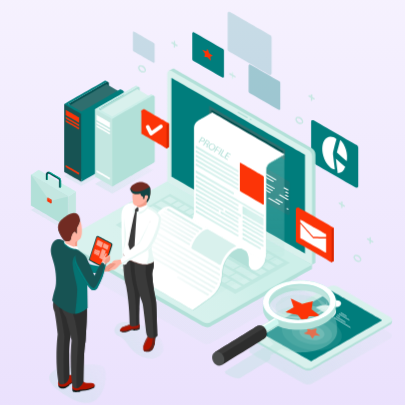
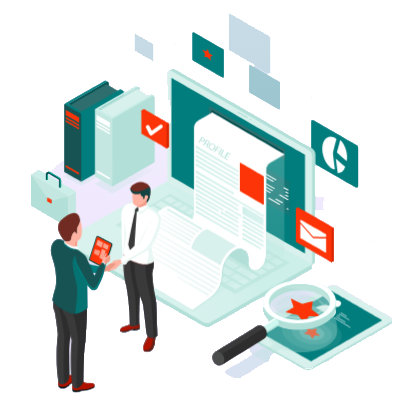
It Support: Done

diff --git a/src/components/screen/ItSupport.tsx b/src/components/screen/ItSupport.tsx
@@ -1,27 +1,112 @@
+"use client";
+
 import {
+  Activity,
+  AlertTriangle,
   ArrowRight,
-  CheckCircle2,
+  Briefcase,
+  Bug,
+  Cloud,
   Cpu,
-  Database,
+  Eye,
+  GraduationCap,
   HardDrive,
+  HeadphonesIcon,
+  Laptop,
+  Link,
   Lock,
+  MessageSquare,
   Monitor,
   MonitorCloud,
-  Network,
-  Phone,
+  Package,
   Server,
   Shield,
+  Smartphone,
+  Target,
+  Users,
   Wifi,
   Wrench,
 } from "lucide-react";
 import Image from "next/image";
+import { Autoplay } from "swiper/modules";
+import { Swiper, SwiperSlide } from "swiper/react";
+
+import "swiper/css";
+
+interface PartnerLogo {
+  name: string;
+  logo: string;
+}
+
+const partnersData: PartnerLogo[] = [
+  {
+    name: "MikroTik",
+    logo: "/images/home/how-we-do/mikrotik.png",
+  },
+  {
+    name: "N-Able",
+    logo: "/images/home/how-we-do/nable.png",
+  },
+  {
+    name: "Grandstream",
+    logo: "/images/home/how-we-do/grandstream.png",
+  },
+  {
+    name: "WordPress",
+    logo: "/images/home/how-we-do/wordpress.png",
+  },
+  {
+    name: "Microsoft 365",
+    logo: "/images/home/how-we-do/microsoft365.png",
+  },
+  {
+    name: "Ingram",
+    logo: "/images/home/how-we-do/ingram.png",
+  },
+  {
+    name: "Cellfi",
+    logo: "/images/home/how-we-do/cellfi.png",
+  },
+  {
+    name: "Ipecs",
+    logo: "/images/home/how-we-do/ipecs.png",
+  },
+  {
+    name: "HPE",
+    logo: "/images/home/how-we-do/hpe.png",
+  },
+  {
+    name: "Avaya",
+    logo: "/images/home/how-we-do/avaya.png",
+  },
+  {
+    name: "Cove",
+    logo: "/images/home/how-we-do/cove.png",
+  },
+  {
+    name: "Veeam",
+    logo: "/images/home/how-we-do/veeam.png",
+  },
+  {
+    name: "Datto",
+    logo: "/images/home/how-we-do/datto.png",
+  },
+  {
+    name: "Recaptcha",
+    logo: "/images/home/how-we-do/recaptcha.png",
+  },
+  {
+    name: "Woo",
+    logo: "/images/home/how-we-do/woo.png",
+  },
+];
 
 export default function ItSupport() {
   return (
     <main className="min-h-screen bg-slate-50 overflow-hidden font-sans text-slate-800">
       {/* ================= HERO SECTION ================= */}
       <section className="relative bg-linear-to-b from-[#f3f5ff] via-[#f9f5ff] to-white pt-24 pb-32 lg:pt-32 lg:pb-48">
-        <div className="max-w-7xl mx-auto px-6 lg:px-8 grid lg:grid-cols-2 gap-12 items-center relative z-10">
+        <div className="max-w-7xl mx-auto px-6 lg:px-8 grid lg:grid-cols-2 gap-24 items-center relative z-10">
           {/* Hero Content */}
           <div className="space-y-8">
             <h1 className="text-4xl md:text-6xl font-extrabold tracking-tight text-slate-900 leading-[1.1]">
@@ -39,23 +124,24 @@ export default function ItSupport() {
             {/* Tag Pills */}
             <div className="flex flex-wrap gap-3 max-w-lg">
               {[
-                "IT Support",
-                "Cyber Security",
-                "Servers & Networking",
-                "Device Repair",
-                "Cloud Services",
-              ].map((tag) => (
+                { icon: HeadphonesIcon, label: "IT Support" },
+                { icon: Shield, label: "Cyber Security" },
+                { icon: Server, label: "Servers & Networking" },
+                { icon: Wrench, label: "Device Repair" },
+                { icon: Cloud, label: "Cloud Services" },
+              ].map(({ icon: Icon, label }) => (
                 <span
-                  key={tag}
-                  className="px-4 py-2 bg-slate-800 text-white text-sm font-medium rounded-full shadow-sm hover:bg-blue-600 transition-colors cursor-default"
+                  key={label}
+                  className="px-4 py-2 bg-slate-800 text-white text-sm font-medium rounded-full shadow-sm hover:bg-blue-600 transition-colors cursor-default flex items-center gap-2"
                 >
-                  {tag}
+                  <Icon className="w-4 h-4" />
+                  {label}
                 </span>
               ))}
             </div>
 
             <div className="pt-4">
-              <button className="px-8 py-4 bg-blue-600 hover:bg-blue-700 text-white font-semibold rounded-full shadow-lg shadow-blue-200 transition-all hover:-translate-y-1 flex items-center gap-2">
+              <button className="px-4 py-2 bg-blue-600 hover:bg-blue-700 text-white font-semibold rounded-full shadow-lg shadow-blue-200 transition-all hover:-translate-y-1 flex items-center gap-2">
                 Get a Quote <ArrowRight className="w-4 h-4" />
               </button>
             </div>
@@ -65,12 +151,14 @@ export default function ItSupport() {
           {/* <div className="relative w-full h-100 flex items-center justify-center">
             <div className="absolute inset-0 bg-blue-100 rounded-full blur-3xl opacity-50 mix-blend-multiply"></div>
             <div className="relative z-10 w-4/5 h-4/5"> */}
-          <Image
-            src="/images/it-support/hero.png"
-            alt="IT Support Illustration"
-            height={400}
-            width={400}
-          />
+          <div className="flex justify-end">
+            <Image
+              src="/images/it-support/hero.png"
+              alt="IT Support Illustration"
+              height={400}
+              width={400}
+            />
+          </div>
           {/* </div>
           </div> */}
         </div>
@@ -98,19 +186,32 @@ export default function ItSupport() {
           <p className="text-blue-600 font-bold tracking-wide uppercase text-sm mb-8 text-center lg:text-left">
             Our Partners
           </p>
-          <div className="flex flex-wrap justify-center lg:justify-between items-center gap-8 opacity-60 grayscale hover:grayscale-0 transition-all duration-500">
-            {/* Partner Logos placeheld by text for structural accuracy */}
-            {["Microsoft", "HP", "Lenovo", "Veeam", "Datto", "Cisco"].map(
-              (partner) => (
-                <div
-                  key={partner}
-                  className="text-2xl font-black text-slate-400"
-                >
-                  {partner}
-                </div>
-              ),
-            )}
-          </div>
+          <Swiper
+            modules={[Autoplay]}
+            autoplay={{ delay: 2500, disableOnInteraction: false }}
+            loop
+            breakpoints={{
+              0: { slidesPerView: 2, spaceBetween: 20 },
+              640: { slidesPerView: 3, spaceBetween: 30 },
+              768: { slidesPerView: 4, spaceBetween: 30 },
+              1024: { slidesPerView: 5, spaceBetween: 40 },
+            }}
+          >
+            {partnersData.map((partner) => (
+              <SwiperSlide
+                key={partner.name}
+                className="flex items-center justify-center"
+              >
+                <Image
+                  src={partner.logo}
+                  alt={partner.name}
+                  width={160}
+                  height={80}
+                  className="object-contain h-20 w-auto"
+                />
+              </SwiperSlide>
+            ))}
+          </Swiper>
         </div>
       </section>
 
@@ -119,7 +220,7 @@ export default function ItSupport() {
         {/* 1. Our Capabilities */}
         <section className="max-w-7xl mx-auto px-6 lg:px-8">
           <div className="grid lg:grid-cols-2 gap-12 items-center mb-16">
-            <div className="bg-white p-10 rounded-3xl shadow-[0_8px_30px_rgb(0,0,0,0.04)] border border-slate-100 relative">
+            <div className="bg-white p-10 rounded-3xl shadow-[0_8px_30px_rgb(0,0,0,0.04)] border-2 border-blue-100 hover:border-blue-300 hover:shadow-[0_8px_30px_rgb(0,0,0,0.08)] transition-all relative">
               <div className="absolute top-0 left-8 w-16 h-1 bg-blue-600 rounded-b-md"></div>
               <h2 className="text-3xl font-bold text-blue-900 mb-6 mt-2">
                 Our Capabilities
@@ -132,16 +233,16 @@ export default function ItSupport() {
               </p>
               <ul className="space-y-3">
                 {[
-                  "24/7 IT Support",
-                  "Strategic Planning",
-                  "Cloud Integrations",
-                ].map((item) => (
+                  { icon: HeadphonesIcon, label: "24/7 IT Support" },
+                  { icon: Briefcase, label: "Strategic Planning" },
+                  { icon: Cloud, label: "Cloud Integrations" },
+                ].map(({ icon: Icon, label }) => (
                   <li
-                    key={item}
+                    key={label}
                     className="flex items-center text-blue-700 font-medium"
                   >
-                    <CheckCircle2 className="w-5 h-5 mr-3 text-blue-500" />{" "}
-                    {item}
+                    <Icon className="w-5 h-5 mr-3 text-blue-500" />
+                    {label}
                   </li>
                 ))}
               </ul>
@@ -202,7 +303,7 @@ export default function ItSupport() {
             ].map((card, i) => (
               <div
                 key={i}
-                className="flex flex-col h-full bg-white p-8 rounded-2xl shadow-sm border border-slate-100 hover:shadow-lg hover:-translate-y-1 transition-all"
+                className="flex flex-col h-full bg-white p-8 rounded-2xl shadow-sm border-2 border-blue-100 hover:border-blue-400 hover:shadow-lg hover:-translate-y-1 transition-all"
               >
                 {card.icon}
 
@@ -250,7 +351,7 @@ export default function ItSupport() {
               </div>
             </div>
 
-            <div className="order-1 lg:order-2 bg-white p-10 rounded-3xl shadow-[0_8px_30px_rgb(0,0,0,0.04)] border border-slate-100 relative">
+            <div className="order-1 lg:order-2 bg-white p-10 rounded-3xl shadow-[0_8px_30px_rgb(0,0,0,0.04)] border-2 border-blue-100 hover:border-blue-300 hover:shadow-[0_8px_30px_rgb(0,0,0,0.08)] transition-all relative">
               <div className="absolute top-0 left-8 w-16 h-1 bg-blue-600 rounded-b-md"></div>
               <h2 className="text-3xl font-bold text-blue-900 mb-6 mt-2">
                 Cyber Security.
@@ -272,17 +373,17 @@ export default function ItSupport() {
           <div className="flex flex-wrap justify-center gap-6">
             {[
               { icon: <Lock />, label: "ESSENTIAL 8 SECURITY" },
-              { icon: <Shield />, label: "CLOUD RISK ASSESSMENT" },
-              { icon: <CheckCircle2 />, label: "VULNERABILITY ASSESSMENT" },
-              { icon: <Database />, label: "WEB APPLICATION FIREWALL" },
-              { icon: <Network />, label: "SECURITY AWARENESS TRAINING" },
-              { icon: <Network />, label: "DARK WEB MONITORING" },
-              { icon: <Network />, label: "INCIDENT RESPONSE" },
-              { icon: <Network />, label: "PENETRATION TESTING" },
+              { icon: <Cloud />, label: "CLOUD RISK ASSESSMENT" },
+              { icon: <Bug />, label: "VULNERABILITY ASSESSMENT" },
+              { icon: <Shield />, label: "WEB APPLICATION FIREWALL" },
+              { icon: <GraduationCap />, label: "SECURITY AWARENESS TRAINING" },
+              { icon: <Eye />, label: "DARK WEB MONITORING" },
+              { icon: <AlertTriangle />, label: "INCIDENT RESPONSE" },
+              { icon: <Target />, label: "PENETRATION TESTING" },
             ].map((feature, i) => (
               <div
                 key={i}
-                className="flex flex-col items-center justify-center p-6 bg-white rounded-2xl shadow-sm border border-slate-100 w-36 md:w-44 hover:bg-blue-50 transition-colors"
+                className="flex flex-col items-center justify-center p-6 bg-white rounded-2xl shadow-sm border-2 border-blue-100 w-36 md:w-44 hover:border-blue-400 hover:bg-blue-50 hover:shadow-md hover:-translate-y-1 transition-all"
               >
                 <div className="bg-blue-100 p-3 rounded-full text-blue-600 mb-3">
                   {feature.icon}
@@ -298,7 +399,7 @@ export default function ItSupport() {
         {/* 3. Servers + Networking */}
         <section className="max-w-7xl mx-auto px-6 lg:px-8">
           <div className="grid lg:grid-cols-2 gap-12 items-center mb-12">
-            <div className="bg-white p-10 rounded-3xl shadow-[0_8px_30px_rgb(0,0,0,0.04)] border border-slate-100 relative">
+            <div className="bg-white p-10 rounded-3xl shadow-[0_8px_30px_rgb(0,0,0,0.04)] border-2 border-blue-100 hover:border-blue-300 hover:shadow-[0_8px_30px_rgb(0,0,0,0.08)] transition-all relative">
               <div className="absolute top-0 left-8 w-16 h-1 bg-blue-600 rounded-b-md"></div>
               <h2 className="text-3xl font-bold text-blue-900 mb-6 mt-2">
                 Servers + Networking
@@ -330,15 +431,15 @@ export default function ItSupport() {
 
           <div className="flex flex-wrap justify-center gap-6">
             {[
-              { icon: <Server />, label: "PROJECT SUPPORT" },
-              { icon: <Network />, label: "DEVICE SUPPORT" },
+              { icon: <Briefcase />, label: "PROJECT SUPPORT" },
+              { icon: <Monitor />, label: "DEVICE SUPPORT" },
               { icon: <Cpu />, label: "SERVER SUPPORT" },
               { icon: <HardDrive />, label: "DESKTOP SUPPORT" },
-              { icon: <HardDrive />, label: "24/4 MONITORING & SUPPORT" },
+              { icon: <Activity />, label: "24/4 MONITORING & SUPPORT" },
             ].map((feature, i) => (
               <div
                 key={i}
-                className="flex flex-col items-center justify-center p-6 bg-white rounded-2xl shadow-sm border border-slate-100 w-36 md:w-44 hover:bg-blue-50 transition-colors"
+                className="flex flex-col items-center justify-center p-6 bg-white rounded-2xl shadow-sm border-2 border-blue-100 w-36 md:w-44 hover:border-blue-400 hover:bg-blue-50 hover:shadow-md hover:-translate-y-1 transition-all"
               >
                 <div className="bg-blue-100 p-3 rounded-full text-blue-600 mb-3">
                   {feature.icon}
@@ -364,7 +465,7 @@ export default function ItSupport() {
               />
             </div>
 
-            <div className="order-1 lg:order-2 bg-white p-10 rounded-3xl shadow-[0_8px_30px_rgb(0,0,0,0.04)] border border-slate-100 relative">
+            <div className="order-1 lg:order-2 bg-white p-10 rounded-3xl shadow-[0_8px_30px_rgb(0,0,0,0.04)] border-2 border-blue-100 hover:border-blue-300 hover:shadow-[0_8px_30px_rgb(0,0,0,0.08)] transition-all relative">
               <div className="absolute top-0 left-8 w-16 h-1 bg-blue-600 rounded-b-md"></div>
               <h2 className="text-3xl font-bold text-blue-900 mb-6 mt-2">
                 Managed IT Services
@@ -385,16 +486,16 @@ export default function ItSupport() {
 
           <div className="flex flex-wrap justify-center gap-6">
             {[
-              { icon: <Monitor />, label: "IT SUPPORT" },
-              { icon: <Wrench />, label: "NETWORK SERVICES" },
-              { icon: <Database />, label: "IT PROCUREMENT" },
-              { icon: <Phone />, label: "IT CONNECTIVITY" },
-              { icon: <Phone />, label: "IT COMMUNICATION" },
-              { icon: <Phone />, label: "IT OUTSOURCING" },
+              { icon: <HeadphonesIcon />, label: "IT SUPPORT" },
+              { icon: <Wifi />, label: "NETWORK SERVICES" },
+              { icon: <Package />, label: "IT PROCUREMENT" },
+              { icon: <Link />, label: "IT CONNECTIVITY" },
+              { icon: <MessageSquare />, label: "IT COMMUNICATION" },
+              { icon: <Users />, label: "IT OUTSOURCING" },
             ].map((feature, i) => (
               <div
                 key={i}
-                className="flex flex-col items-center justify-center p-6 bg-white rounded-2xl shadow-sm border border-slate-100 w-36 md:w-44 hover:bg-blue-50 transition-colors"
+                className="flex flex-col items-center justify-center p-6 bg-white rounded-2xl shadow-sm border-2 border-blue-100 w-36 md:w-44 hover:border-blue-400 hover:bg-blue-50 hover:shadow-md hover:-translate-y-1 transition-all"
               >
                 <div className="bg-blue-100 p-3 rounded-full text-blue-600 mb-3">
                   {feature.icon}
@@ -410,7 +511,7 @@ export default function ItSupport() {
         {/* 5. Device Repair */}
         <section className="max-w-7xl mx-auto px-6 lg:px-8 pb-20">
           <div className="grid lg:grid-cols-2 gap-12 items-center mb-12">
-            <div className="bg-white p-10 rounded-3xl shadow-[0_8px_30px_rgb(0,0,0,0.04)] border border-slate-100 relative">
+            <div className="bg-white p-10 rounded-3xl shadow-[0_8px_30px_rgb(0,0,0,0.04)] border-2 border-blue-100 hover:border-blue-300 hover:shadow-[0_8px_30px_rgb(0,0,0,0.08)] transition-all relative">
               <div className="absolute top-0 left-8 w-16 h-1 bg-blue-600 rounded-b-md"></div>
               <h2 className="text-3xl font-bold text-blue-900 mb-6 mt-2">
                 Device Repair
@@ -441,15 +542,15 @@ export default function ItSupport() {
 
           <div className="flex flex-wrap justify-center gap-6">
             {[
-              { icon: <Monitor />, label: "MOBILE PHONE" },
-              { icon: <Wrench />, label: "LAPTOP'S" },
-              { icon: <Database />, label: "DESKTOP'S" },
-              { icon: <Phone />, label: "TABLETS" },
-              { icon: <Phone />, label: "SERVER'S" },
+              { icon: <Smartphone />, label: "MOBILE PHONE" },
+              { icon: <Laptop />, label: "LAPTOP'S" },
+              { icon: <Monitor />, label: "DESKTOP'S" },
+              { icon: <Smartphone />, label: "TABLETS" },
+              { icon: <Server />, label: "SERVER'S" },
             ].map((feature, i) => (
               <div
                 key={i}
-                className="flex flex-col items-center justify-center p-6 bg-white rounded-2xl shadow-sm border border-slate-100 w-36 md:w-44 hover:bg-blue-50 transition-colors"
+                className="flex flex-col items-center justify-center p-6 bg-white rounded-2xl shadow-sm border-2 border-blue-100 w-36 md:w-44 hover:border-blue-400 hover:bg-blue-50 hover:shadow-md hover:-translate-y-1 transition-all"
               >
                 <div className="bg-blue-100 p-3 rounded-full text-blue-600 mb-3">
                   {feature.icon}